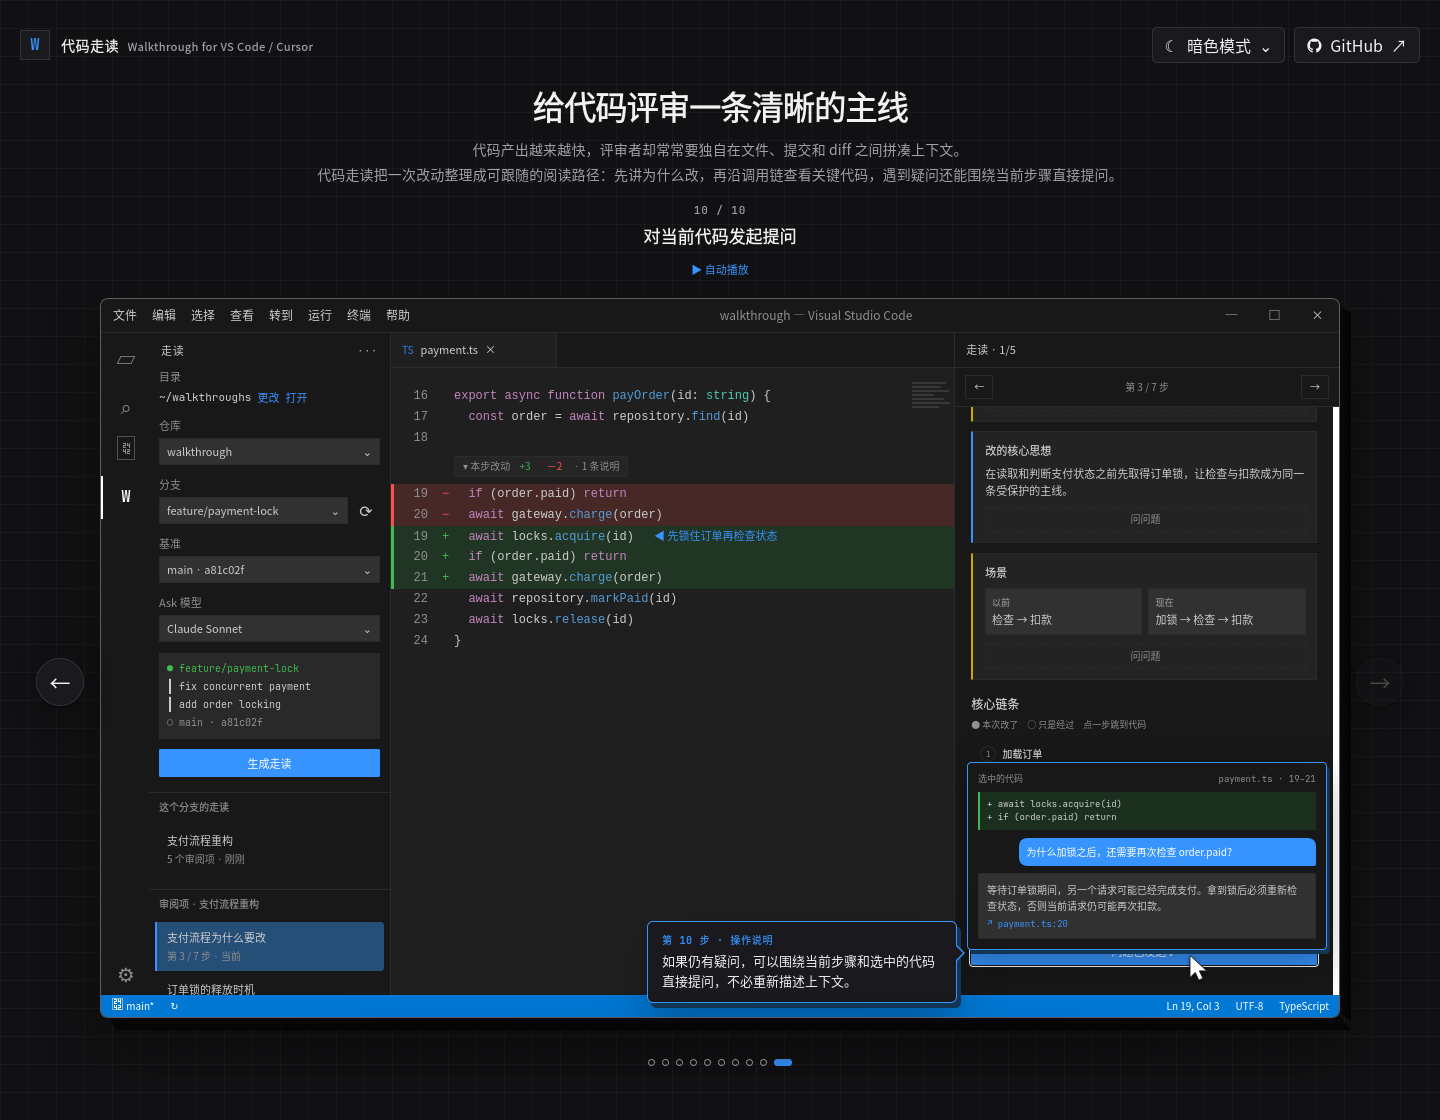
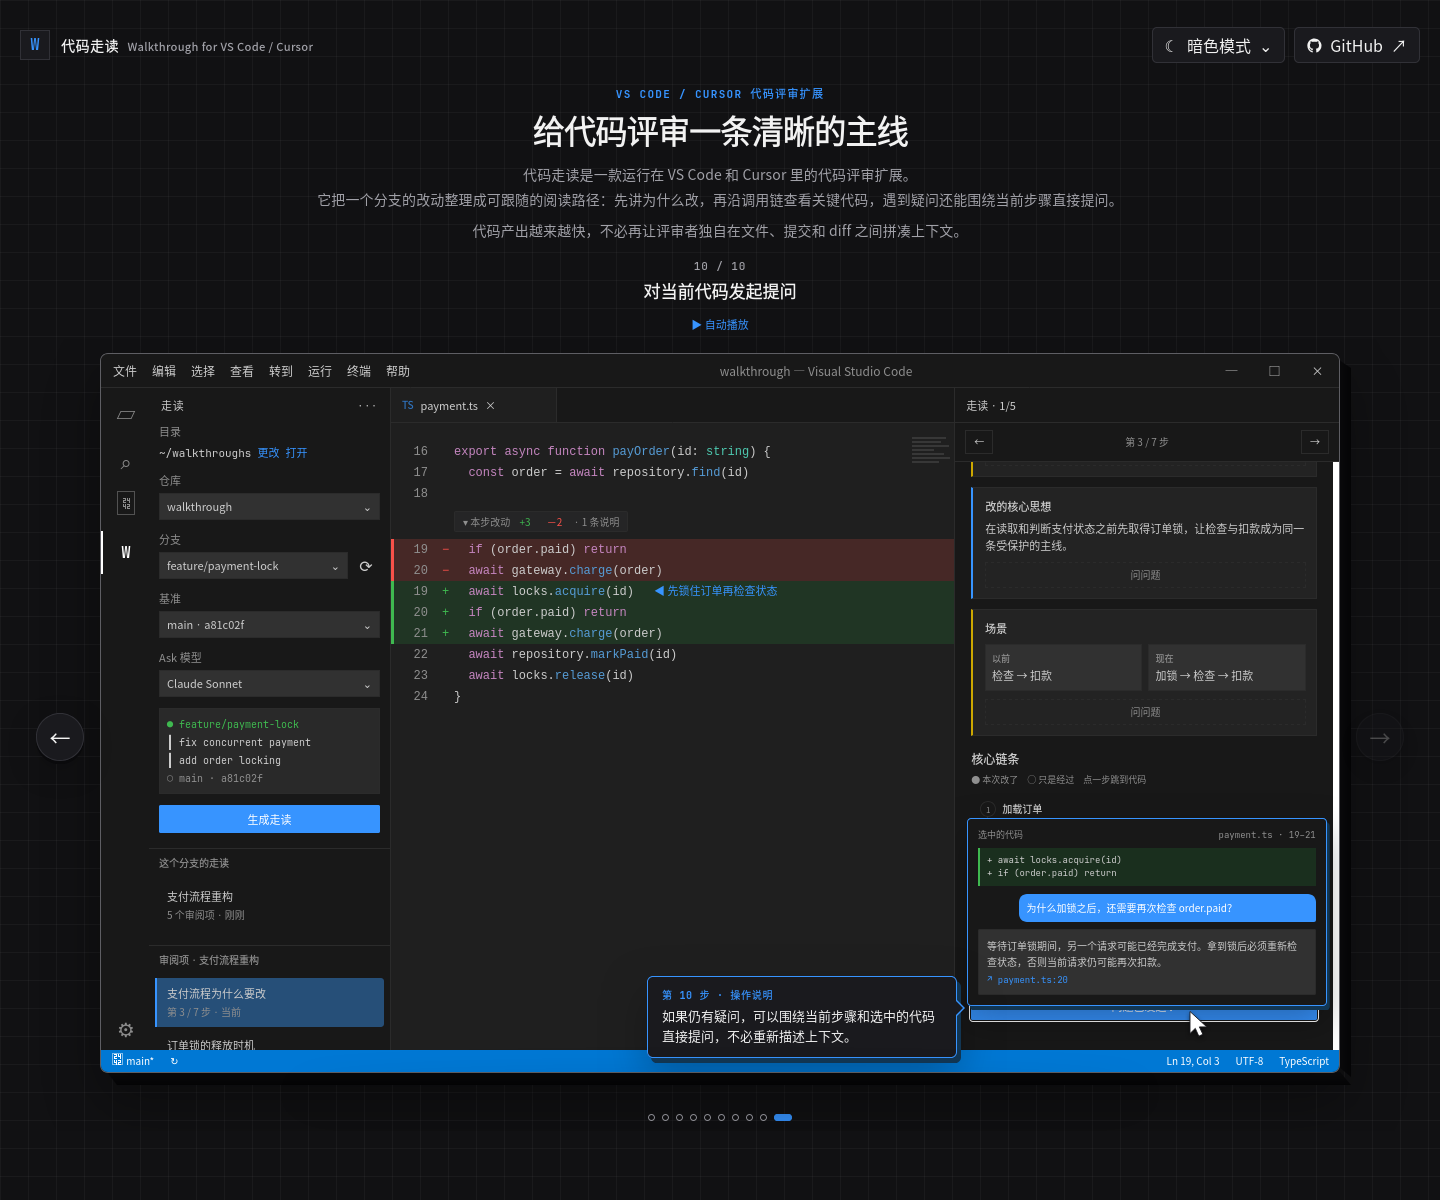
docs: identify walkthrough as an editor extension

diff --git a/docs/walkthrough-editor/walkthrough-editor.html b/docs/walkthrough-editor/walkthrough-editor.html
@@ -21,7 +21,7 @@
     *{box-sizing:border-box} html{min-width:320px;background:var(--page)} body{min-height:100vh;margin:0;color:var(--ink);background-color:var(--page);background-image:linear-gradient(var(--grid) 1px,transparent 1px),linear-gradient(90deg,var(--grid) 1px,transparent 1px);background-size:28px 28px;font-family:"Segoe UI Variable","Segoe UI","PingFang SC","Microsoft YaHei",sans-serif;-webkit-font-smoothing:antialiased;transition:background-color .2s,color .2s}button{font:inherit}button,a{-webkit-tap-highlight-color:transparent}
     .page{width:min(1560px,calc(100% - 40px));margin:0 auto;padding:22px 0 42px}.site-header{min-height:46px;display:flex;align-items:center;justify-content:space-between;gap:20px;margin-bottom:18px}.brand{display:flex;align-items:center;gap:11px;min-width:0}.brand-mark{width:30px;height:30px;display:grid;place-items:center;border:1px solid var(--line);background:var(--surface);color:var(--accent);font:700 15px/1 Consolas,monospace}.brand-name{font-size:14px;font-weight:650;letter-spacing:.035em}.brand-subtitle{color:var(--muted);font-size:11px;margin-left:5px}.site-actions{display:flex;align-items:center;gap:9px}
     .header-button,.theme-trigger{height:36px;display:inline-flex;align-items:center;gap:8px;padding:0 12px;color:var(--ink);background:var(--surface);border:1px solid var(--line);border-radius:5px;text-decoration:none;cursor:pointer}.header-button:hover,.theme-trigger:hover{background:var(--control-hover)}.github-mark{width:15px;height:15px;fill:currentColor}.theme-picker{position:relative}.theme-trigger{min-width:126px;justify-content:space-between}.theme-menu{position:absolute;z-index:50;top:calc(100% + 7px);right:0;width:158px;padding:5px;background:var(--surface);border:1px solid var(--line);border-radius:6px;box-shadow:0 12px 32px rgba(0,0,0,.18)}.theme-menu[hidden]{display:none}.theme-option{width:100%;min-height:34px;display:grid;grid-template-columns:18px 1fr;align-items:center;gap:7px;padding:6px 8px;color:var(--ink);background:transparent;border:0;border-radius:4px;text-align:left;cursor:pointer}.theme-option:hover,.theme-option[aria-checked="true"]{background:var(--accent-wash)}.theme-check{color:var(--accent);font-weight:700}
-    .hero-copy{width:min(820px,90vw);margin:4px auto 18px;text-align:center}.hero-copy h1{margin:0 0 10px;font-size:clamp(25px,2.25vw,34px);font-weight:680;line-height:1.24;letter-spacing:-.035em;text-wrap:balance}.hero-copy p{margin:0;color:var(--muted);font-size:14px;line-height:1.8;letter-spacing:.01em;text-wrap:balance}
+    .hero-copy{width:min(840px,90vw);margin:4px auto 18px;text-align:center}.hero-eyebrow{margin-bottom:9px;color:var(--accent);font:700 11px/1.4 Consolas,"SFMono-Regular",monospace;letter-spacing:.12em;text-transform:uppercase}.hero-copy h1{margin:0 0 11px;font-size:clamp(25px,2.25vw,34px);font-weight:680;line-height:1.24;letter-spacing:-.035em;text-wrap:balance}.hero-copy p{margin:0;color:var(--muted);font-size:14px;line-height:1.8;letter-spacing:.01em;text-wrap:balance}.hero-context{margin-top:5px!important}
     .demo-nav{min-height:60px;display:grid;grid-template-columns:140px minmax(0,1fr) 140px;align-items:center;margin-bottom:12px;padding:8px 10px;background:color-mix(in srgb,var(--surface) 94%,transparent);border:1px solid var(--line);border-radius:8px}.demo-nav button{height:40px;padding:0 14px;color:var(--ink);background:var(--control);border:1px solid var(--line);border-radius:5px;cursor:pointer;transition:background .15s,border-color .15s}.demo-nav button:hover:not(:disabled){background:var(--control-hover);border-color:var(--accent)}.demo-nav button:disabled{opacity:.38;cursor:default}.demo-next{justify-self:end}.demo-action{min-width:0;padding:0 18px;text-align:center}.demo-step{color:var(--muted);font:600 11px/1 Consolas,monospace;letter-spacing:.08em}.demo-title{margin-top:5px;font-size:16px;font-weight:650;white-space:nowrap;overflow:hidden;text-overflow:ellipsis}
     .editor-viewport{overflow:auto;padding:0 0 34px;scrollbar-width:thin}.vscode-shell{position:relative;min-width:1040px;height:clamp(610px,calc(100vh - 176px),850px);min-height:610px;overflow:hidden;color:var(--vs-fg);background:var(--vs-editor);border:1px solid var(--line);border-radius:8px;box-shadow:var(--shadow);isolation:isolate}.window-bar{height:34px;display:grid;grid-template-columns:auto 1fr auto;align-items:center;background:var(--vs-title);border-bottom:1px solid var(--vs-border);font-size:12px}.window-menu{display:flex;gap:15px;padding:0 12px;white-space:nowrap}.window-title{justify-self:center;color:var(--vs-muted)}.window-controls{display:flex;height:100%}.window-control{width:43px;display:grid;place-items:center}
     .workbench{height:calc(100% - 56px);display:grid;grid-template-columns:48px 242px minmax(420px,1fr) minmax(300px,31%)}.activity-bar{display:flex;flex-direction:column;align-items:center;gap:3px;padding-top:5px;color:var(--vs-activity-fg);background:var(--vs-activity)}.activity-icon{width:48px;height:43px;display:grid;place-items:center;border-left:2px solid transparent;font-size:20px;opacity:.7}.activity-icon.active{color:#fff;border-left-color:#fff;opacity:1}.activity-spacer{flex:1}.walkthrough-icon{font:700 15px/1 Consolas,monospace}.sidebar,.walkthrough-panel{min-width:0;background:var(--vs-sidebar)}.sidebar{border-right:1px solid var(--vs-border);overflow:hidden}.view-heading{height:35px;display:flex;align-items:center;justify-content:space-between;padding:0 12px;font-size:11px;text-transform:uppercase;letter-spacing:.07em}.sidebar-scroll{height:calc(100% - 35px);overflow:hidden;padding:0 10px 16px}.field{position:relative;margin-bottom:11px;border-radius:3px}.field-label{display:block;margin-bottom:4px;color:var(--vs-muted);font-size:11px}.directory-line{display:flex;align-items:center;gap:6px;font-size:11px}.directory-line code{min-width:0;overflow:hidden;text-overflow:ellipsis}.text-link{color:var(--accent);white-space:nowrap}.vscode-input{min-height:26px;display:flex;align-items:center;justify-content:space-between;gap:8px;padding:4px 7px;background:var(--vs-input);border:1px solid var(--vs-border);font-size:11px}.field-row{display:grid;grid-template-columns:1fr 28px;gap:4px}.refresh{display:grid;place-items:center;background:transparent;border:0;color:var(--vs-fg)}.commit-list{margin:5px 0 10px;padding:6px 7px;background:color-mix(in srgb,var(--vs-input) 70%,transparent);border:1px solid var(--vs-border);font:10px/1.8 Consolas,monospace}.commit-list .head{color:var(--added-edge)}.commit-list .base{color:var(--vs-muted)}.generate-button,.ask-button{width:100%;min-height:28px;color:#fff;background:var(--accent);border:1px solid var(--accent);border-radius:2px;font-size:11px}.side-section-title{margin:15px -10px 4px;padding:6px 10px;border-top:1px solid var(--vs-border);color:var(--vs-muted);font-size:10px;font-weight:600;text-transform:uppercase}.review-item{position:relative;margin:0 -4px 3px;padding:7px 7px 7px 12px;border-radius:3px;font-size:11px}.review-item.active{background:var(--vs-selection)}.review-item.active::before{content:"";position:absolute;inset:0 auto 0 0;width:2px;background:var(--accent)}.review-meta{margin-top:2px;color:var(--vs-muted);font-size:10px}
@@ -92,8 +92,10 @@
     </div>
   </header>
   <section class="hero-copy" aria-labelledby="hero-title">
+    <div class="hero-eyebrow">VS Code / Cursor 代码评审扩展</div>
     <h1 id="hero-title">给代码评审一条清晰的主线</h1>
-    <p>代码产出越来越快，评审者却常常要独自在文件、提交和 diff 之间拼凑上下文。<br>代码走读把一次改动整理成可跟随的阅读路径：先讲为什么改，再沿调用链查看关键代码，遇到疑问还能围绕当前步骤直接提问。</p>
+    <p>代码走读是一款运行在 VS Code 和 Cursor 里的代码评审扩展。<br>它把一个分支的改动整理成可跟随的阅读路径：先讲为什么改，再沿调用链查看关键代码，遇到疑问还能围绕当前步骤直接提问。</p>
+    <p class="hero-context">代码产出越来越快，不必再让评审者独自在文件、提交和 diff 之间拼凑上下文。</p>
   </section>
   <nav class="demo-nav" aria-label="产品演示导航"><div class="demo-action" aria-live="polite"><div class="demo-step" data-step-count>01 / 10</div><div class="demo-title" data-step-title>选择代码仓库</div></div><div class="demo-controls"><button class="demo-play" type="button" data-play>▶ 自动播放</button></div></nav>
   <div class="editor-stage">
